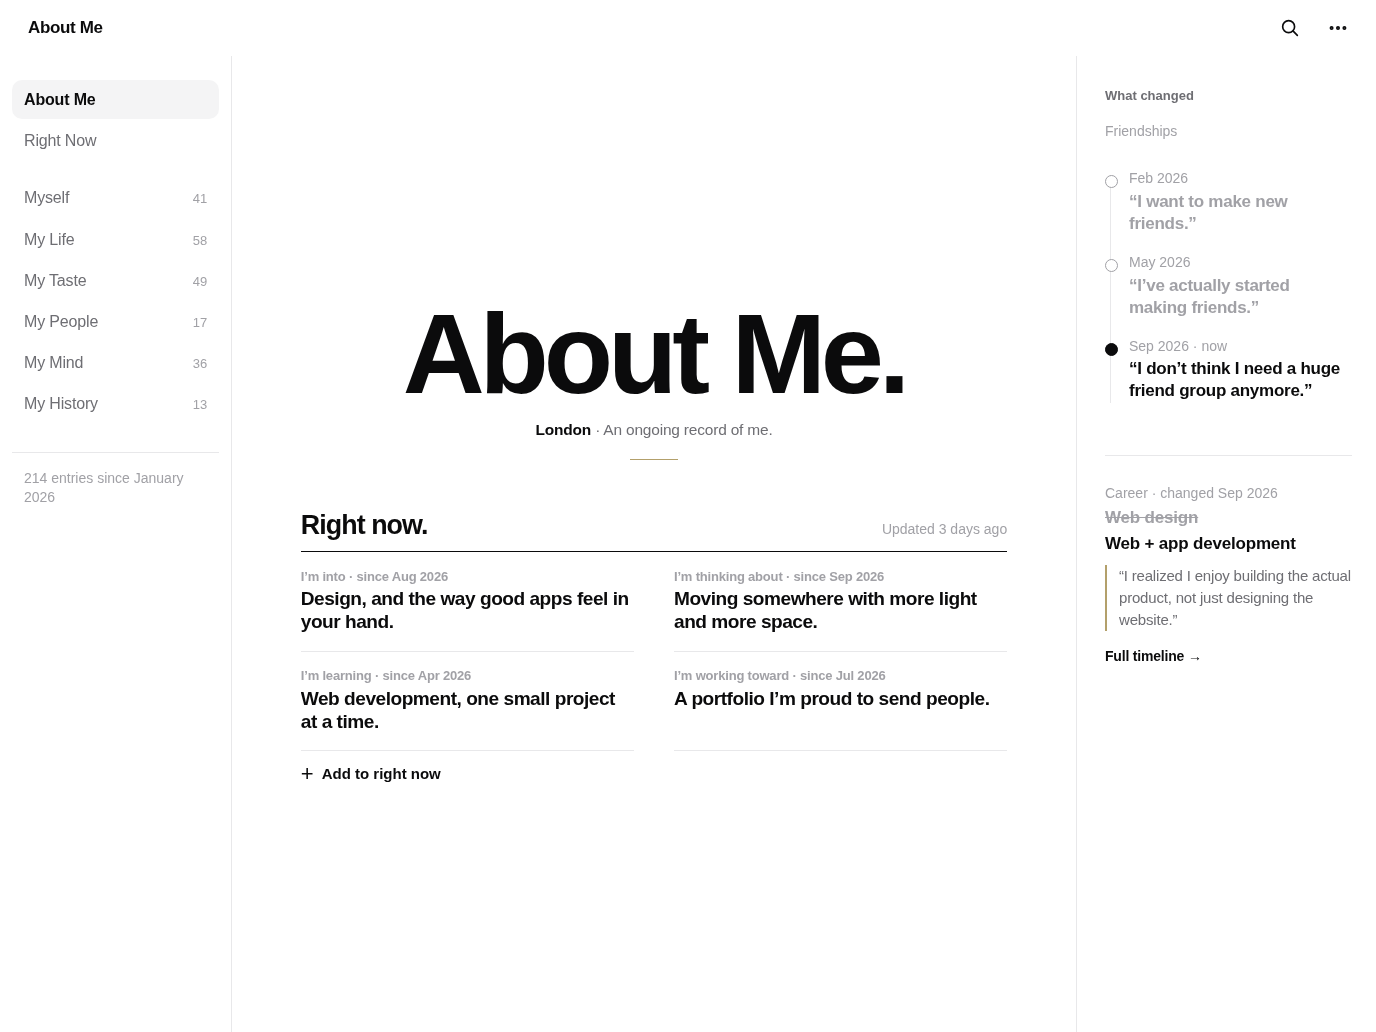
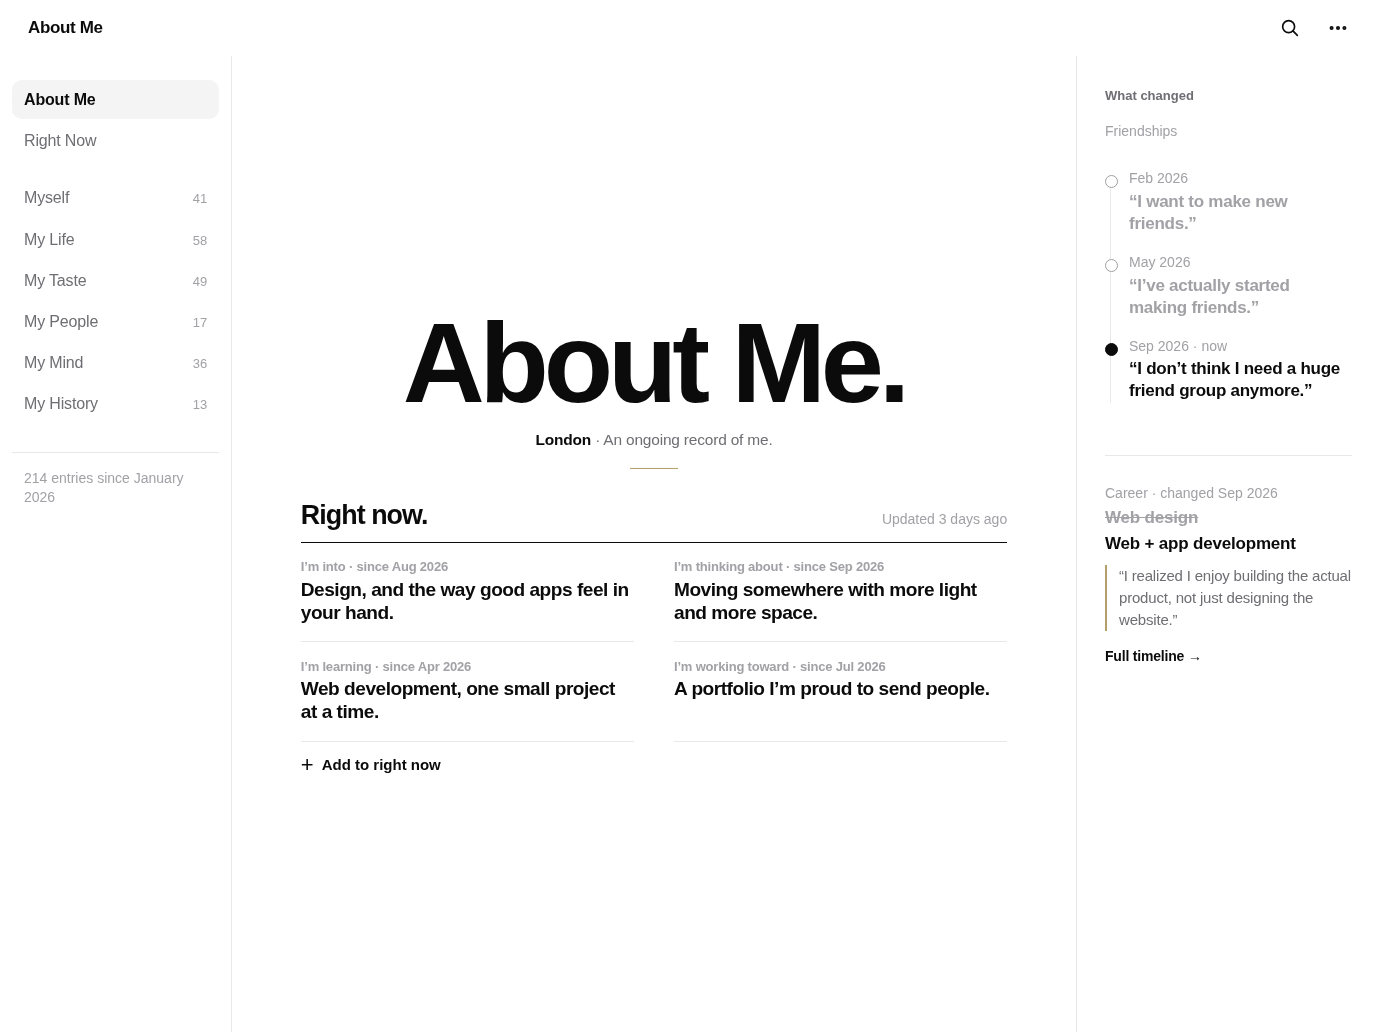
Fit every About Me chapter page to one iPad screen
Chapter pages reuse the home composition: centred title statement,
two-column parts grid with one clamped line each, and a What Changed
strip that moves to the context panel in wide landscape.

Claude-Session: https://claude.ai/code/session_01B2jaZ1SNYJtGLSRg6z58ic

Changed region(s): [[0.2188, 0.4651, 0.75, 0.7752], [0.2812, 0.2791, 0.6562, 0.4341]]

diff --git a/home.html b/home.html
@@ -94,7 +94,7 @@ p { margin: 0; }
   }
   .main { padding-inline: clamp(40px, 5vw, 80px); }
   .home .book { display: none; }                    /* the sidebar is the index now */
-  .home { align-content: center !important; gap: clamp(24px, 5vh, 64px) !important; }
+  .home { align-content: center !important; gap: clamp(16px, 3.2vh, 64px) !important; }
   .home .statement h1 span { display: inline; }            /* one line in landscape */
   .home .statement h1 { font-size: clamp(56px, 11vh, 132px); }
 }
@@ -191,17 +191,16 @@ p { margin: 0; }
 .ctx-item .v { font: 700 19px/1.3 var(--sans); letter-spacing: -.015em; }
 .ctx-item .v.changed { color: var(--gold-ink); }
 
-/* ── Chapter page ───────────────────────────────────────── */
-.chapter-page .opening { display: grid; gap: 14px; padding-block: 96px 16px; }
-.chapter-page h1 { font: 800 var(--t-hero)/.92 var(--sans); letter-spacing: -.045em; }
-.part { padding-block: 32px; border-bottom: 1px solid var(--rule); display: grid; gap: 6px; }
-.part:first-of-type { border-top: 1px solid var(--rule); margin-top: 48px; }
-.part h2 { font: 700 24px/1.2 var(--sans); letter-spacing: -.02em; }
-.part .desc { color: var(--muted); font-size: 17px; }
-.part .entry { font: 500 20px/1.4 var(--sans); margin-top: 6px; }
-.part .row { display: flex; justify-content: space-between; align-items: baseline; gap: 12px; }
-.history-foot { margin-top: 64px; padding: 28px 0; display: grid; gap: 8px; }
-.history-foot p { font: 700 24px/1.25 var(--sans); letter-spacing: -.02em; }
+/* ── Chapter page: same one-screen composition ───────── */
+.statement .eyebrow { font: 600 13px/1.2 var(--sans); color: var(--faint); }
+.parts { display: grid; grid-template-columns: repeat(2, minmax(0, 1fr)); column-gap: 40px; align-content: center; }
+.pt { display: grid; align-content: start; gap: 3px; min-width: 0; padding-block: clamp(10px, 1.5vh, 22px); border-top: 1px solid var(--rule); }
+.pt .top { display: flex; justify-content: space-between; align-items: baseline; gap: 12px; }
+.pt h2 { font: 700 clamp(18px, 2.1vh, 28px)/1.15 var(--sans); letter-spacing: -.025em; }
+.pt p { font: 500 clamp(14px, 1.45vh, 18px)/1.4 var(--sans); color: var(--muted);
+  display: -webkit-box; -webkit-line-clamp: 2; -webkit-box-orient: vertical; overflow: hidden; }
+.pt p.entry { color: var(--ink); }
+.pt p.empty { color: var(--faint); }
 
 /* ── Drawer + search sheet ──────────────────────────────── */
 .scrim { position: fixed; inset: 0; z-index: 40; background: rgba(0, 0, 0, .25); opacity: 0; pointer-events: none; transition: opacity .25s; }
@@ -359,23 +358,32 @@ function homeHTML() {
 }
 
 function chapterHTML(c) {
-  return `<article class="column chapter-page">
-    <header class="opening">
-      <span class="label">${esc(c.tagline)}</span>
-      <h1>${esc(c.title)}</h1>
-      <p class="meta">${c.entries} entries · ${c.parts.length} parts</p>
+  const related = [thread, change].filter(t => t.chapter === c.id);
+  const filled = c.parts.filter(p => p[2]).length;
+  return `<div class="home chapter-page">
+    <header class="statement">
+      <span class="eyebrow">${esc(c.tagline)}</span>
+      <h1>${esc(c.title)}.</h1>
+      <p class="sub"><b>${c.entries} entries</b> · ${c.parts.length} parts · ${filled} with recent entries</p>
     </header>
-    ${c.parts.map(([name, desc, entry]) => `<section class="part">
-      <div class="row"><h2>${esc(name)}</h2><span class="meta">${entry ? "latest" : "nothing yet"}</span></div>
-      ${desc ? `<p class="desc">${esc(desc)}</p>` : ""}
-      ${entry ? `<p class="entry">${esc(entry)}</p>` : ""}
-    </section>`).join("")}
-    <footer class="history-foot">
-      <span class="label">What Changed</span>
-      <p>${c.changes ? `This chapter has evolved ${c.changes} times.` : "Nothing here has changed yet."}</p>
-      ${c.changes ? `<a class="link" href="#history">View history →</a>` : ""}
-    </footer>
-  </article>`;
+
+    <section class="parts" aria-label="Parts of ${esc(c.title)}">
+      ${c.parts.map(([name, desc, entry]) => `<a class="pt" href="#${c.id}">
+        <div class="top"><h2>${esc(name)}</h2><span class="meta">${entry ? "latest" : ""}</span></div>
+        ${entry ? `<p class="entry">${esc(entry)}</p>` : desc ? `<p>${esc(desc)}</p>` : `<p class="empty">Nothing yet. Tap to write the first entry.</p>`}
+      </a>`).join("")}
+    </section>
+
+    <section class="latest" aria-labelledby="chLatest">
+      <div class="block-head"><h2 id="chLatest">What changed.</h2>${c.changes ? `<a class="link" href="#history">View history →</a>` : ""}</div>
+      <div class="rows">
+        ${related.map(t => t.steps
+          ? `<p class="row"><span class="topic">${t.topic}</span><span><span class="old">“${esc(t.steps[0].quote)}”</span><span class="to">→</span><span>“${esc(t.steps.at(-1).quote)}”</span><span class="meta">${t.steps.length} versions</span></span></p>`
+          : `<p class="row"><span class="topic">${t.topic}</span><span><span class="was">${esc(t.was)}</span><span class="to">→</span><span>${esc(t.is)}</span><span class="meta">${t.date}</span></span></p>`).join("")}
+        <p class="row"><span class="topic">Overall</span><span><span>${c.changes ? `This chapter has evolved ${c.changes} times.` : "Nothing here has changed yet."}</span></span></p>
+      </div>
+    </section>
+  </div>`;
 }
 
 function contextHTML(route) {
@@ -385,7 +393,7 @@ function contextHTML(route) {
     return `<div class="ctx-block"><span class="label">This chapter</span>
       <div class="ctx-item"><span class="meta">Entries</span><span class="v">${c.entries}</span></div>
       <div class="ctx-item"><span class="meta">Times it changed</span><span class="v">${c.changes}</span></div></div>
-      <div class="ctx-block"><span class="label">Recent changes</span>${related.length ? related.map(t => `<div class="ctx-item"><span class="meta">${esc(t.topic)}</span><span class="v changed">${esc(t.is || t.steps.at(-1).quote)}</span></div>`).join("") : `<p class="meta">None yet.</p>`}</div>`;
+      <div class="ctx-block"><span class="label">What changed</span><p class="ctx-item"><span class="v">${c.changes ? `Evolved ${c.changes} times.` : "Nothing yet."}</span></p>${c.changes ? `<a class="link" href="#history">View history →</a>` : ""}${related.length ? related.map(t => `<div class="ctx-item"><span class="meta">${esc(t.topic)}</span><span class="v changed">${esc(t.is || t.steps.at(-1).quote)}</span></div>`).join("") : `<p class="meta">None yet.</p>`}</div>`;
   }
   const last = thread.steps.length - 1;
   return `<div class="ctx-block"><span class="label">What changed</span>
@@ -408,9 +416,8 @@ function render() {
   $("#drawerNav").innerHTML = navHTML(route);
   $("#context").innerHTML = contextHTML(route);
   $("#sideFoot").textContent = `${person.entries} entries since ${person.begun}`;
-  const home = !chapter;
-  document.documentElement.classList.toggle("fit", home);
-  $("#main").classList.toggle("is-home", home);
+  document.documentElement.classList.add("fit");
+  $("#main").classList.add("is-home");
   window.scrollTo(0, 0);
   closeAll();
 }

diff --git a/DESIGN.md b/DESIGN.md
@@ -6,7 +6,7 @@ Metaphor: **a personal book with an archive.** It has chapters instead of cards 
 
 Visual direction (v2): **one bold statement on white.** Pure white page, heavy black grotesk, centered, and mostly empty space, like an Apple product page (the "Create More." reference). The home screen leads with the statement **About Me.**
 
-**Rule: on iPad the home screen never scrolls.** It is one composed screen in every orientation and window size down to 700 × 600pt. Type sizes scale with window height (`vh` clamps), so the same composition fits an iPad mini as well as a 13" iPad Pro. Only narrower windows (Slide Over, iPhone) fall back to scrolling. Chapter pages can scroll.
+**Rule: on iPad the home screen never scrolls.** It is one composed screen in every orientation and window size down to 700 × 600pt. Type sizes scale with window height (`vh` clamps), so the same composition fits an iPad mini as well as a 13" iPad Pro. Only narrower windows (Slide Over, iPhone) fall back to scrolling. **This applies to every page**, the chapter pages as well as home.
 
 ---
 
@@ -43,6 +43,16 @@ Note: a 1200pt canvas is wider than any real iPad (13" iPad Pro is 1032 × 1376p
 - Between 900 and 1100pt wide (split view) there's no right panel, so the two-line What changed. strip returns to the centre.
 
 Content and features are the same as portrait. Only the arrangement changes.
+
+## 3b. Chapter pages (one screen)
+
+They use the same composition as home, so every page feels like the same book:
+
+1. **Opening**: the tagline in small grey ("What I'm drawn to"), the chapter title as the statement (**My Taste.**), then "49 entries · 10 parts · 2 with recent entries" and the gold hairline.
+2. **Parts**: a 2-column grid (up to 10 parts, 5 rows). Each part has its name in bold and one line under it: the latest entry in black, or its description in grey, or "Nothing yet. Tap to write the first entry." in light grey. Clamped to 2 lines.
+3. **What changed.**: the chapter's evolution lines (e.g. Career: ~~Web design~~ → Web + app development) and "This chapter has evolved N times", with **View history →**. In wide landscape this moves to the right panel with the chapter's stats.
+
+Verified with no overflow on all 6 chapters and home at 1200×1600, 1600×1200, iPad mini, 11" and 13" in both orientations, and a 1000×744 split-view window.
 
 ## 4. Typography
 
